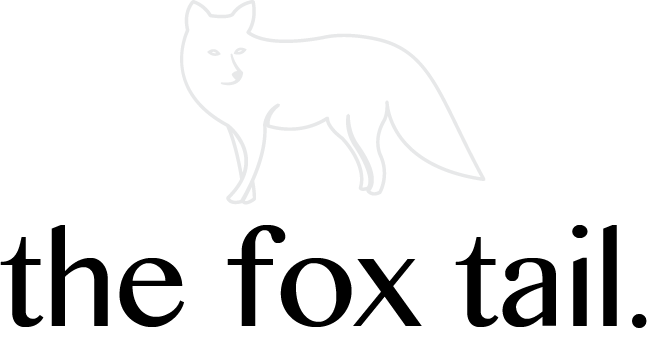
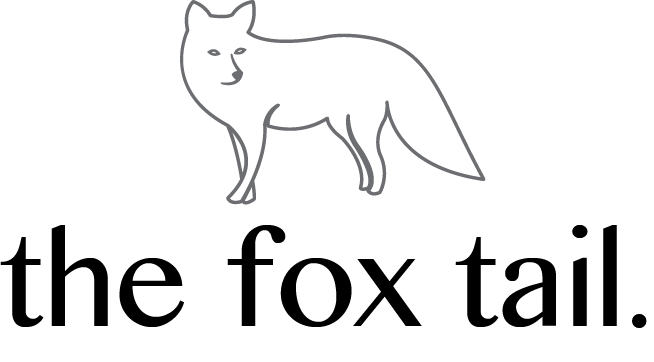
Finishes header and adds fonts

diff --git a/styles/main.css b/styles/main.css
@@ -15,7 +15,6 @@ body {
   max-width: 1438px;
   margin-left: auto;
   margin-right: auto;
-  background-color: #F2EAE4;
   width: 1438px;
   font-size: 62.5%; }
 
@@ -37,9 +36,9 @@ a:hover {
 /* Header styles will start here
 ================================ */
 header {
-  background-color: #D9C5A0;
   height: 300px;
-  width: 100%; }
+  width: 100%;
+  background-image: url("../images/header-back.png"); }
 
 header .logo {
   height: 200px;
@@ -51,8 +50,21 @@ header img {
 
 /* Nav styles
 ============= */
+nav {
+  width: 100%; }
+
+nav ul {
+  font-family: "Droid Sans", sans-serif, sans-serif;
+  font-size: 1.8em;
+  font-color: black;
+  font-weight: 400;
+  margin: 10px 0;
+  text-align: center;
+  padding-left: 0; }
+
 nav ul li {
-  display: inline-block; }
+  display: inline-block;
+  margin-right: 20px; }
 
 /* Tabs and Jumbotron
 ============= */
@@ -66,6 +78,14 @@ nav ul li {
   width: 80%;
   margin-left: auto;
   margin-right: auto; }
+
+/* Content Styles
+================= */
+section p {
+  font-family: "Droid Serif", serif, serif;
+  font-size: 1.8em;
+  font-color: black;
+  font-weight: 400; }
 
 /* Bottom
 ============= */
@@ -92,7 +112,6 @@ nav ul li {
 /* Footer
 ============= */
 footer {
-  background-color: #D9C5A0;
   clear: both;
   height: 150px;
   border: 1px solid black;

diff --git a/styles/main.scss b/styles/main.scss
@@ -8,6 +8,11 @@ $java: #BFAD8A;
 $cream: #F2EAE4;
 $mocha: #F2EAE4;
 
+$contentFont:'Droid Serif', serif;
+$navFont: 'Droid Sans', sans-serif;
+
+@mixin fontStyle($family, $serif, $size, $color, $weight) {font-family: $family, $serif; font-size: $size; font-color: $color; font-weight: $weight;};
+
 
 /* Global Styles
 ================ */
@@ -17,7 +22,6 @@ $mocha: #F2EAE4;
 
 body {
   @include outer-container(1438px);
-  background-color: $cream;
   width: 1438px;
   font-size: 62.5%;
 }
@@ -40,6 +44,7 @@ a:hover {
 header {
   height: 300px;
   width: 100%;
+  background-image: url('../images/header-back.png');
 
   .logo {
     height: 200px;
@@ -56,10 +61,17 @@ header {
 /* Nav styles
 ============= */
 nav {
+  width: 100%;
 
   ul {
+    @include fontStyle($navFont, sans-serif, 1.8em, black, 400);
+    margin: 10px 0;
+    text-align: center;
+    padding-left: 0;
+
     li {
       display: inline-block;
+      margin-right: 20px;
     }
   }
 }
@@ -78,6 +90,15 @@ nav {
   width: 80%;
   margin-left: auto;
   margin-right: auto;
+}
+
+/* Content Styles
+================= */
+
+section {
+  p {
+      @include fontStyle($contentFont, serif, 1.8em, black, 400);
+  }
 }
 
 /* Bottom

diff --git a/index.html b/index.html
@@ -3,6 +3,7 @@
 <head>
   <title>Restaurant</title>
   <meta name="viewport" content="width=device-width, initial-scale=1.0">
+  <link href='http://fonts.googleapis.com/css?family=Droid+Sans|Droid+Serif:400,700' rel='stylesheet' type='text/css'>
   <link rel="stylesheet" href="styles/vendor/normalize.css">
   <link rel="stylesheet" href="styles/main.css">
 </head>
